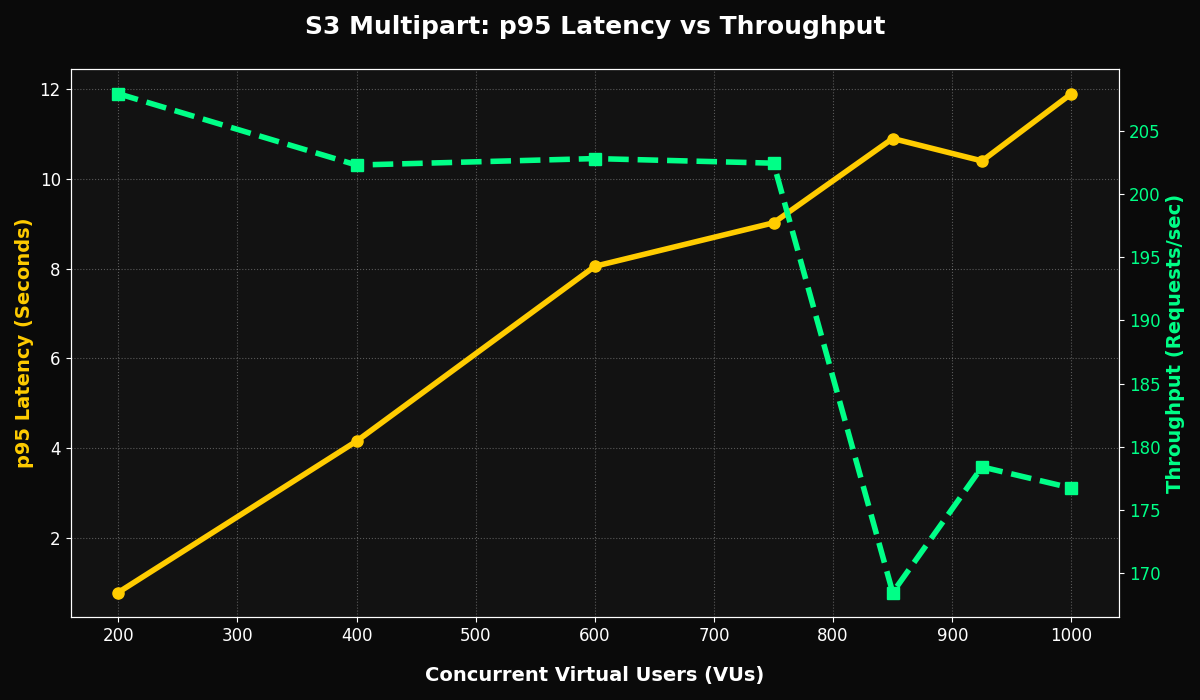
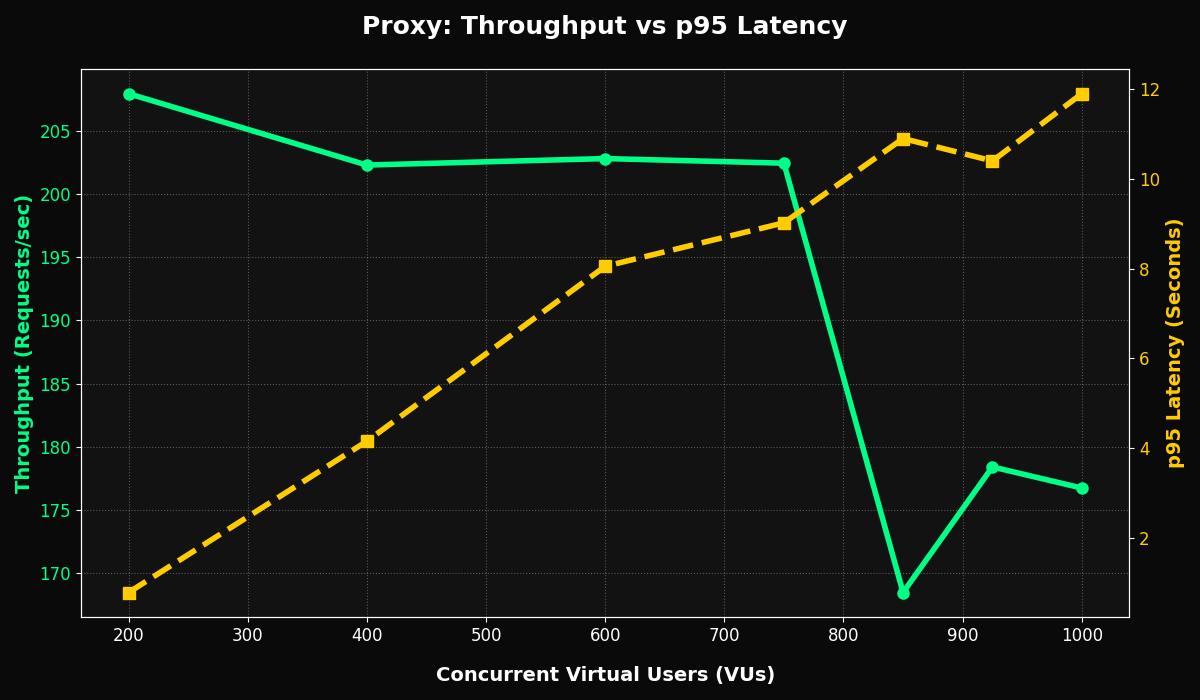
add more vis and pics

diff --git a/load-test-res/datavis/bossTE.py b/load-test-res/datavis/bossTE.py
@@ -1,0 +1,46 @@
+import matplotlib.pyplot as plt
+import pandas as pd
+
+# Load the datasets
+df_mp = pd.read_csv('metrics-mp.csv')
+df_proxy = pd.read_csv('metrics-proxy.csv')
+
+plt.style.use('dark_background')
+fig, ax1 = plt.subplots(figsize=(14, 8), facecolor='#0a0a0a')
+ax1.set_facecolor('#121212')
+
+# --- LEFT AXIS: THROUGHPUT (RPS) ---
+# S3 Throughput (Neon Green)
+ax1.plot(df_mp['VU'], df_mp['throughput_rps'], marker='o', color='#00ff87', 
+         linewidth=4, markersize=10, label='S3: Throughput (RPS)', zorder=3)
+# Proxy Throughput (Cyan)
+ax1.plot(df_proxy['VU'], df_proxy['throughput_rps'], marker='o', color='#00d4ff', 
+         linewidth=4, markersize=10, label='Proxy: Throughput (RPS)', zorder=3)
+
+ax1.set_xlabel('Concurrent Virtual Users (VUs)', fontsize=14, fontweight='bold', labelpad=15, color='#ffffff')
+ax1.set_ylabel('Throughput (Requests/sec)', color='#ffffff', fontsize=14, fontweight='bold')
+ax1.tick_params(axis='both', labelcolor='#ffffff', labelsize=12)
+
+# --- RIGHT AXIS: ERROR RATE (%) ---
+ax2 = ax1.twinx()
+# S3 Error Rate (Bright Red Dashed)
+ax2.plot(df_mp['VU'], df_mp['error_rate_percent'], marker='x', color='#ff4444', 
+         linewidth=3, linestyle='--', markersize=10, label='S3: Error Rate (%)', zorder=3)
+# Proxy Error Rate (Orange Dashed)
+ax2.plot(df_proxy['VU'], df_proxy['error_rate_percent'], marker='x', color='#ff8c00', 
+         linewidth=3, linestyle='--', markersize=10, label='Proxy: Error Rate (%)', zorder=3)
+
+ax2.set_ylabel('Error Rate (%)', color='#ffffff', fontsize=14, fontweight='bold')
+ax2.tick_params(axis='y', labelcolor='#ffffff', labelsize=12)
+
+# Title and Grid
+plt.title('Reliability Benchmark: Throughput vs Error Rate', fontsize=20, fontweight='bold', pad=30, color='#ffffff')
+ax1.grid(True, linestyle=':', alpha=0.2, zorder=1)
+
+# Combined Legend for both axes
+lines1, labels1 = ax1.get_legend_handles_labels()
+lines2, labels2 = ax2.get_legend_handles_labels()
+ax1.legend(lines1 + lines2, labels1 + labels2, loc='upper left', fontsize=11, framealpha=0.2)
+
+plt.tight_layout()
+plt.show()

diff --git a/load-test-res/datavis/proxy2.py b/load-test-res/datavis/proxy2.py
@@ -7,22 +7,22 @@ plt.style.use('dark_background')
 fig, ax1 = plt.subplots(figsize=(12, 7), facecolor='#0a0a0a')
 ax1.set_facecolor('#121212')
 
-# P95 Latency
-ax1.plot(df['VU'], df['p95_latency_s'], marker='o', color='#ffcc00', 
-         linewidth=4, markersize=8, label='p95 Latency (s)', zorder=3)
-ax1.set_xlabel('Concurrent Virtual Users (VUs)', fontsize=14, fontweight='bold', labelpad=15)
-ax1.set_ylabel('p95 Latency (Seconds)', color='#ffcc00', fontsize=14, fontweight='bold')
-ax1.tick_params(axis='both', labelcolor='#ffffff', labelsize=12)
+# Throughput - Left Axis
+ax1.plot(df['VU'], df['throughput_rps'], marker='o', color='#00ff87', 
+         linewidth=4, markersize=8, label='Throughput (RPS)', zorder=3)
+ax1.set_xlabel('Concurrent Virtual Users (VUs)', fontsize=14, fontweight='bold', labelpad=15, color='#ffffff')
+ax1.set_ylabel('Throughput (Requests/sec)', color='#00ff87', fontsize=14, fontweight='bold')
+ax1.tick_params(axis='x', labelcolor='#ffffff', labelsize=12)
+ax1.tick_params(axis='y', labelcolor='#00ff87', labelsize=12)
 
-# Throughput - Secondary Axis
+# P95 Latency - Right Axis
 ax2 = ax1.twinx()
-ax2.plot(df['VU'], df['throughput_rps'], marker='s', color='#00ff87', 
-         linewidth=4, markersize=8, linestyle='--', label='Throughput (RPS)', zorder=3)
-ax2.set_ylabel('Throughput (Requests/sec)', color='#00ff87', fontsize=14, fontweight='bold')
-ax2.tick_params(axis='y', labelcolor='#00ff87', labelsize=12)
+ax2.plot(df['VU'], df['p95_latency_s'], marker='s', color='#ffcc00', 
+         linewidth=4, markersize=8, linestyle='--', label='p95 Latency (s)', zorder=3)
+ax2.set_ylabel('p95 Latency (Seconds)', color='#ffcc00', fontsize=14, fontweight='bold')
+ax2.tick_params(axis='y', labelcolor='#ffcc00', labelsize=12)
 
-plt.title('Proxy: p95 Latency vs Throughput', fontsize=18, fontweight='bold', pad=25, color='#ffffff')
+plt.title('Proxy: Throughput vs p95 Latency', fontsize=18, fontweight='bold', pad=25, color='#ffffff')
 ax1.grid(True, linestyle=':', alpha=0.3, zorder=1)
-
 plt.tight_layout()
 plt.show()

diff --git a/load-test-res/datavis/mp2.py b/load-test-res/datavis/mp2.py
@@ -7,22 +7,22 @@ plt.style.use('dark_background')
 fig, ax1 = plt.subplots(figsize=(12, 7), facecolor='#0a0a0a')
 ax1.set_facecolor('#121212')
 
-# P95 Latency
-ax1.plot(df['VU'], df['p95_latency_s'], marker='o', color='#ffcc00', 
-         linewidth=4, markersize=8, label='p95 Latency (s)', zorder=3)
-ax1.set_xlabel('Concurrent Virtual Users (VUs)', fontsize=14, fontweight='bold', labelpad=15)
-ax1.set_ylabel('p95 Latency (Seconds)', color='#ffcc00', fontsize=14, fontweight='bold')
-ax1.tick_params(axis='both', labelcolor='#ffffff', labelsize=12)
+# Throughput - Left Axis
+ax1.plot(df['VU'], df['throughput_rps'], marker='o', color='#00ff87', 
+         linewidth=4, markersize=8, label='Throughput (RPS)', zorder=3)
+ax1.set_xlabel('Concurrent Virtual Users (VUs)', fontsize=14, fontweight='bold', labelpad=15, color='#ffffff')
+ax1.set_ylabel('Throughput (Requests/sec)', color='#00ff87', fontsize=14, fontweight='bold')
+ax1.tick_params(axis='x', labelcolor='#ffffff', labelsize=12)
+ax1.tick_params(axis='y', labelcolor='#00ff87', labelsize=12)
 
-# Throughput
+# P95 Latency - Right Axis
 ax2 = ax1.twinx()
-ax2.plot(df['VU'], df['throughput_rps'], marker='s', color='#00ff87', 
-         linewidth=4, markersize=8, linestyle='--', label='Throughput (RPS)', zorder=3)
-ax2.set_ylabel('Throughput (Requests/sec)', color='#00ff87', fontsize=14, fontweight='bold')
-ax2.tick_params(axis='y', labelcolor='#00ff87', labelsize=12)
+ax2.plot(df['VU'], df['p95_latency_s'], marker='s', color='#ffcc00', 
+         linewidth=4, markersize=8, linestyle='--', label='p95 Latency (s)', zorder=3)
+ax2.set_ylabel('p95 Latency (Seconds)', color='#ffcc00', fontsize=14, fontweight='bold')
+ax2.tick_params(axis='y', labelcolor='#ffcc00', labelsize=12)
 
-plt.title('S3 Multipart: p95 Latency vs Throughput', fontsize=18, fontweight='bold', pad=25, color='#ffffff')
+plt.title('Proxy: Throughput vs p95 Latency', fontsize=18, fontweight='bold', pad=25, color='#ffffff')
 ax1.grid(True, linestyle=':', alpha=0.3, zorder=1)
-
 plt.tight_layout()
 plt.show()

diff --git a/load-test-res/datavis/bossTP.py b/load-test-res/datavis/bossTP.py
@@ -1,0 +1,31 @@
+import matplotlib.pyplot as plt
+import pandas as pd
+
+df_mp = pd.read_csv('metrics-mp.csv')
+df_proxy = pd.read_csv('metrics-proxy.csv')
+
+plt.style.use('dark_background')
+fig, ax1 = plt.subplots(figsize=(14, 8), facecolor='#0a0a0a')
+ax1.set_facecolor('#121212')
+
+# Left Axis: Throughput (Solid Lines)
+ax1.plot(df_mp['VU'], df_mp['throughput_rps'], marker='o', color='#00ff87', linewidth=4, label='S3: Throughput (RPS)')
+ax1.plot(df_proxy['VU'], df_proxy['throughput_rps'], marker='o', color='#00d4ff', linewidth=4, label='Proxy: Throughput (RPS)')
+ax1.set_ylabel('Throughput (Requests/sec)', color='#ffffff', fontsize=14, fontweight='bold')
+ax1.set_xlabel('Concurrent Virtual Users (VUs)', fontsize=14, fontweight='bold', color='#ffffff')
+
+# Right Axis: P95 Latency (Dashed Lines)
+ax2 = ax1.twinx()
+ax2.plot(df_mp['VU'], df_mp['p95_latency_s'], marker='s', color='#ffcc00', linewidth=3, linestyle='--', label='S3: p95 Latency (s)')
+ax2.plot(df_proxy['VU'], df_proxy['p95_latency_s'], marker='s', color='#ff4444', linewidth=3, linestyle='--', label='Proxy: p95 Latency (s)')
+ax2.set_ylabel('p95 Latency (Seconds)', color='#ffffff', fontsize=14, fontweight='bold')
+
+plt.title('Performance Showdown: Throughput & Latency', fontsize=20, fontweight='bold', pad=30)
+ax1.grid(True, linestyle=':', alpha=0.2)
+# Merge legends
+lines1, labels1 = ax1.get_legend_handles_labels()
+lines2, labels2 = ax2.get_legend_handles_labels()
+ax1.legend(lines1 + lines2, labels1 + labels2, loc='upper left', framealpha=0.3)
+
+plt.tight_layout()
+plt.show()

diff --git a/load-test-res/datavis/mp3.py b/load-test-res/datavis/mp3.py
@@ -1,0 +1,27 @@
+import matplotlib.pyplot as plt
+import pandas as pd
+
+df = pd.read_csv('metrics-mp.csv')
+
+plt.style.use('dark_background')
+fig, ax1 = plt.subplots(figsize=(12, 7), facecolor='#0a0a0a')
+ax1.set_facecolor('#121212')
+
+# P95 Latency (Yellow) - Note: converting median_ms to seconds for comparison
+ax1.plot(df['VU'], df['p95_latency_s'], marker='o', color='#ffcc00', 
+         linewidth=4, markersize=8, label='P95 Latency (Tail)', zorder=3)
+
+# Median Latency (Cyan) - Converting ms to s
+ax1.plot(df['VU'], df['median_latency_ms'] / 1000, marker='D', color='#00d4ff', 
+         linewidth=3, linestyle='-.', markersize=7, label='Median Latency (Average)', zorder=3)
+
+ax1.set_xlabel('Concurrent Virtual Users (VUs)', fontsize=14, fontweight='bold', labelpad=15, color='#ffffff')
+ax1.set_ylabel('Latency (Seconds)', color='#ffffff', fontsize=14, fontweight='bold')
+ax1.tick_params(axis='both', labelcolor='#ffffff', labelsize=12)
+
+plt.title('Latency Spread: Median vs P95 - Multipart', fontsize=18, fontweight='bold', pad=25, color='#ffffff')
+ax1.grid(True, linestyle=':', alpha=0.3, zorder=1)
+ax1.legend(fontsize=12, loc='upper left', framealpha=0.2)
+
+plt.tight_layout()
+plt.show()

diff --git a/load-test-res/datavis/proxy3.py b/load-test-res/datavis/proxy3.py
@@ -1,0 +1,27 @@
+import matplotlib.pyplot as plt
+import pandas as pd
+
+df = pd.read_csv('metrics-proxy.csv')
+
+plt.style.use('dark_background')
+fig, ax1 = plt.subplots(figsize=(12, 7), facecolor='#0a0a0a')
+ax1.set_facecolor('#121212')
+
+# P95 Latency (Yellow) - Note: converting median_ms to seconds for comparison
+ax1.plot(df['VU'], df['p95_latency_s'], marker='o', color='#ffcc00', 
+         linewidth=4, markersize=8, label='P95 Latency (Tail)', zorder=3)
+
+# Median Latency (Cyan) - Converting ms to s
+ax1.plot(df['VU'], df['median_latency_ms'] / 1000, marker='D', color='#00d4ff', 
+         linewidth=3, linestyle='-.', markersize=7, label='Median Latency (Average)', zorder=3)
+
+ax1.set_xlabel('Concurrent Virtual Users (VUs)', fontsize=14, fontweight='bold', labelpad=15, color='#ffffff')
+ax1.set_ylabel('Latency (Seconds)', color='#ffffff', fontsize=14, fontweight='bold')
+ax1.tick_params(axis='both', labelcolor='#ffffff', labelsize=12)
+
+plt.title('Latency Spread: Median vs P95 - Proxy', fontsize=18, fontweight='bold', pad=25, color='#ffffff')
+ax1.grid(True, linestyle=':', alpha=0.3, zorder=1)
+ax1.legend(fontsize=12, loc='upper left', framealpha=0.2)
+
+plt.tight_layout()
+plt.show()
